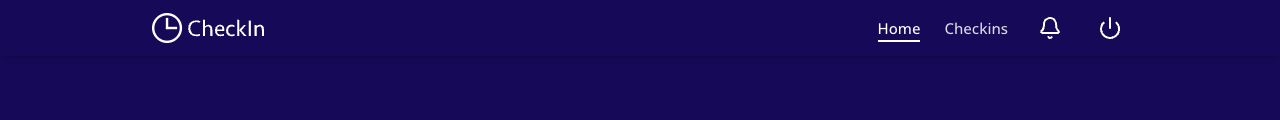
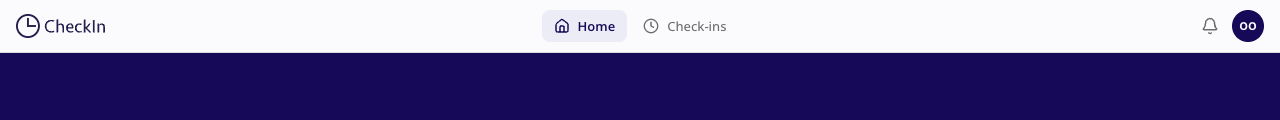
Replace the navy header with a light toolbar of tabs, the bell and Me

diff --git a/src/components/Header/Nav.jsx b/src/components/Header/Nav.jsx
@@ -1,78 +1,67 @@
 import { useContext } from "react";
 import { NavLink } from "react-router-dom";
-import { Bell, BellOff, Power } from "lucide-react";
+import { Bell, BellOff, Clock, House, Users } from "lucide-react";
 import { usePush } from "../../pwa/usePush";
 import AuthContext from "../../store/auth-context";
 
-const navElements = [
-  { label: "Home", link: "/" },
-  { label: "Checkins", link: "/checkins" },
-];
+// NavLink marks the current page with aria-current, which the tint follows.
+const tabClasses =
+  "flex h-8 items-center gap-2 rounded-lg px-3 text-label2 hover:bg-fill hover:text-label focus-visible:outline-2 focus-visible:outline-accent aria-[current=page]:bg-tint aria-[current=page]:font-semibold aria-[current=page]:text-accent dark:aria-[current=page]:bg-white/10 dark:aria-[current=page]:text-label";
 
-// NavLink marks the current page with aria-current, which the underline follows.
-const linkClasses =
-  "border-b-2 border-transparent pb-0.5 text-white/85 hover:border-white/60 hover:text-white focus-visible:outline-2 focus-visible:outline-offset-4 focus-visible:outline-white aria-[current=page]:border-white aria-[current=page]:text-white";
-
-const iconButtonClasses =
-  "flex cursor-pointer rounded-full p-1.5 hover:bg-white/10 focus-visible:outline-2 focus-visible:outline-white disabled:cursor-default disabled:opacity-60";
-
+// The toolbar's tabs. Apple's guidance keeps segmented controls out of main navigation, so these are tabs.
 function Nav() {
   const authCtx = useContext(AuthContext);
-  const push = usePush();
 
   return (
-    <nav>
-      <ul className="flex items-center gap-6">
-        {navElements.map((navElement) => (
-          <li key={navElement.link}>
-            <NavLink className={linkClasses} to={navElement.link} end>
-              {navElement.label}
-            </NavLink>
-          </li>
-        ))}
+    <nav aria-label="Main">
+      <ul className="flex gap-1">
+        <li>
+          <NavLink className={tabClasses} to="/" end>
+            <House className="size-4" aria-hidden="true" /> Home
+          </NavLink>
+        </li>
+        <li>
+          <NavLink className={tabClasses} to="/checkins">
+            <Clock className="size-4" aria-hidden="true" /> Check-ins
+          </NavLink>
+        </li>
         {authCtx.isAdmin && (
           <li>
-            <NavLink className={linkClasses} to="/users">
-              Users
+            <NavLink className={tabClasses} to="/users">
+              <Users className="size-4" aria-hidden="true" /> Users
             </NavLink>
           </li>
         )}
-        {/* Desktop's place to turn reminders off (ADR 0005), as the Me sheet's switch is on a phone. */}
-        {push.method === "switch" && (
-          <li>
-            <button
-              type="button"
-              aria-label="Notifications"
-              aria-pressed={push.isEnabled}
-              title={
-                push.isEnabled
-                  ? "Notifications on: reminds you to clock out if you forget"
-                  : "Notifications off: turn on to be reminded to clock out"
-              }
-              disabled={push.isBusy}
-              className={iconButtonClasses}
-              onClick={push.isEnabled ? push.disable : push.enable}
-            >
-              {push.isEnabled ? (
-                <Bell className="size-6" aria-hidden="true" />
-              ) : (
-                <BellOff className="size-6 text-white/70" aria-hidden="true" />
-              )}
-            </button>
-          </li>
-        )}
-        <li>
-          <button
-            type="button"
-            aria-label="Logout"
-            className={iconButtonClasses}
-            onClick={authCtx.logout}
-          >
-            <Power className="size-6" aria-hidden="true" />
-          </button>
-        </li>
       </ul>
     </nav>
+  );
+}
+
+// Desktop's quick way to turn reminders off (ADR 0005); the Me sheet has the same switch.
+export function BellButton() {
+  const push = usePush();
+  if (push.method !== "switch") return null;
+
+  return (
+    <button
+      type="button"
+      aria-label="Notifications"
+      aria-pressed={push.isEnabled}
+      title={
+        push.isEnabled
+          ? "Notifications on: reminds you to clock out if you forget"
+          : "Notifications off: turn on to be reminded to clock out"
+      }
+      disabled={push.isBusy}
+      className="flex size-8 cursor-pointer items-center justify-center rounded-lg text-label2 hover:bg-fill hover:text-label focus-visible:outline-2 focus-visible:outline-accent disabled:cursor-default disabled:opacity-60"
+      onClick={push.isEnabled ? push.disable : push.enable}
+    >
+      {push.isEnabled ? (
+        <Bell className="size-[18px]" aria-hidden="true" />
+      ) : (
+        <BellOff className="size-[18px] text-label3" aria-hidden="true" />
+      )}
+    </button>
   );
 }
 

diff --git a/src/components/Header/Header.jsx b/src/components/Header/Header.jsx
@@ -1,15 +1,50 @@
-import logo from "../../assets/img/Checkin-white.svg";
-import Nav from "./Nav";
+import { useContext, useState } from "react";
+import logo from "../../assets/img/Checkin-blue.svg";
+import logoDark from "../../assets/img/Checkin-white.svg";
+import AuthContext from "../../store/auth-context";
+import MeSheet, { initials } from "../Me/MeSheet";
+import Nav, { BellButton } from "./Nav";
 
+// Desktop only: a light glass toolbar, as in macOS apps (ADR 0006). Phones use the tab bar instead.
+// The initials open the same Me sheet as the phone's Me tab, centred.
 function Header() {
-  // Desktop only: native apps show no logo bar, and the tab bar is the phone's navigation.
+  const { user } = useContext(AuthContext);
+  const [isMeOpen, setIsMeOpen] = useState(false);
+
+  function handleMeOpen() {
+    setIsMeOpen(true);
+  }
+
+  function handleMeClose() {
+    setIsMeOpen(false);
+  }
+
   return (
-    <header className="sticky top-0 z-40 bg-brand text-white shadow-md max-md:hidden">
-      <div className="mx-auto flex h-14 max-w-5xl items-center justify-between px-4 md:px-6">
-        <img className="h-[30px]" src={logo} alt="Checkin" />
-        <Nav />
-      </div>
-    </header>
+    <>
+      <header className="sticky top-0 z-40 border-b border-sep/60 bg-cell/70 backdrop-blur-xl select-none max-md:hidden">
+        <div className="grid h-13 grid-cols-[1fr_auto_1fr] items-center px-4">
+          <div className="flex">
+            <img className="h-6 dark:hidden" src={logo} alt="Checkin" />
+            <img className="hidden h-6 dark:block" src={logoDark} alt="Checkin" />
+          </div>
+          <Nav />
+          <div className="flex items-center justify-self-end gap-1.5">
+            <BellButton />
+            <button
+              type="button"
+              aria-label="Me"
+              aria-haspopup="dialog"
+              title={user?.name}
+              className="flex size-8 cursor-pointer items-center justify-center rounded-full bg-accent text-mac-sub font-bold text-on-accent focus-visible:outline-2 focus-visible:outline-offset-2 focus-visible:outline-accent"
+              onClick={handleMeOpen}
+            >
+              {user ? initials(user.name) : "Me"}
+            </button>
+          </div>
+        </div>
+      </header>
+      {isMeOpen && <MeSheet onClose={handleMeClose} />}
+    </>
   );
 }
 

diff --git a/e2e/auth.spec.js b/e2e/auth.spec.js
@@ -1,7 +1,7 @@
 import { apiUrl } from "./support/api.js";
 import { expect, loginAs, phone, test, toasts } from "./support/test.js";
 
-test("an admin logs in, sees the admin menu and logs out", async ({ page }) => {
+test("an admin logs in, sees the Users tab and signs out from Me", async ({ page }) => {
   await page.goto("/");
   await expect(page.getByRole("heading", { name: "Sign in to your account" })).toBeVisible();
 
@@ -10,10 +10,20 @@ test("an admin logs in, sees the admin menu and logs out", async ({ page }) => {
   await page.getByRole("button", { name: "Login" }).click();
 
   await expect(page.getByRole("button", { name: "Checkin" })).toBeVisible();
-  await expect(page.getByRole("link", { name: "Users" })).toBeVisible();
+  await expect(page.getByRole("navigation", { name: "Main" }).getByRole("link", { name: "Users" })).toBeVisible();
 
-  await page.getByRole("button", { name: "Logout" }).click();
+  await page.getByRole("button", { name: "Me" }).click();
+  await expect(page.getByRole("dialog", { name: "Me" })).toContainText("Ana Admin");
+  await page.getByRole("button", { name: "Sign out" }).click();
   await expect(page.getByRole("heading", { name: "Sign in to your account" })).toBeVisible();
+});
+
+test("a worker's toolbar has Home and Check-ins, and no Users", async ({ page }) => {
+  await loginAs(page, "worker@example.com");
+  const tabs = page.getByRole("navigation", { name: "Main" }).getByRole("link");
+
+  await expect(tabs).toHaveText(["Home", "Check-ins"]);
+  await expect(tabs.first()).toHaveAttribute("aria-current", "page");
 });
 
 test("a wrong password shows an error and doesn't log in", async ({ page }) => {

diff --git a/src/components/UI/Modal/Modal.jsx b/src/components/UI/Modal/Modal.jsx
@@ -5,7 +5,7 @@ const centred = "m-auto max-h-[calc(100dvh-2rem)] w-[calc(100%-2rem)] rounded-2x
 
 // On phones a sheet is pinned to the bottom edge and slides up, unless the user asked for less motion.
 const sheetClasses =
-  "outline-none open:flex open:flex-col max-md:mx-0 max-md:mt-auto max-md:mb-0 max-md:max-h-[calc(100dvh-env(safe-area-inset-top)-0.75rem)] max-md:w-full max-md:max-w-none max-md:rounded-t-[14px] max-md:rounded-b-none max-md:bg-bg max-md:text-label max-md:motion-safe:transition-transform max-md:motion-safe:duration-300 max-md:motion-safe:ease-out max-md:starting:open:translate-y-full";
+  "outline-none open:flex open:flex-col max-md:mx-0 max-md:mt-auto max-md:mb-0 max-md:max-h-[calc(100dvh-env(safe-area-inset-top)-0.75rem)] max-md:w-full max-md:max-w-none max-md:rounded-t-[14px] max-md:rounded-b-none bg-bg text-label max-md:motion-safe:transition-transform max-md:motion-safe:duration-300 max-md:motion-safe:ease-out max-md:starting:open:translate-y-full";
 
 const barButtonClasses =
   "min-h-11 cursor-pointer rounded px-1 text-accent focus-visible:outline-2 focus-visible:outline-accent";

diff --git a/e2e/clock.spec.js b/e2e/clock.spec.js
@@ -14,7 +14,7 @@ test("a worker clocks in and out on an iPhone, which has no Vibration API", asyn
   // A retrying toHaveCount(0) would just wait for the toast to expire.
   expect(await toasts(page).count()).toBe(0);
 
-  await page.getByRole("link", { name: "Checkins" }).first().click();
+  await page.getByRole("link", { name: "Check-ins" }).first().click();
   await expect(checkinRows(page).filter({ hasText: "04/11/2026" })).toHaveCount(1);
 });
 

diff --git a/src/App.jsx b/src/App.jsx
@@ -46,7 +46,7 @@ function App() {
       <Toaster
         position="top-right"
         richColors
-        offset={{ top: "4.5rem", right: "1rem" }}
+        offset={{ top: "4rem", right: "1rem" }}
         mobileOffset={{ top: "calc(env(safe-area-inset-top) + 0.5rem)" }}
       />
     </div>

diff --git a/src/components/Me/MeSheet.jsx b/src/components/Me/MeSheet.jsx
@@ -10,7 +10,7 @@ import { Group, GroupLabel, Switch, buttonRowClasses, rowClasses } from "../UI/G
 
 const themeLabels = { light: "Light", dark: "Dark", system: "System" };
 
-function initials(name) {
+export function initials(name) {
   return name
     .split(/\s+/)
     .slice(0, 2)

diff --git a/adrs/0006-desktop-like-a-mac-app.plan.md b/adrs/0006-desktop-like-a-mac-app.plan.md
@@ -61,7 +61,7 @@ The macOS sizes and their sources are in `adrs/assets/0006/apple-macos-notes.md`
   - Its `adrs/assets/0005/desktop-bell.png` screenshot is retaken.
   - Tabs: admins see Users and workers don't. `e2e/tabs.spec.js` gets a desktop case if it has none.
   - The toolbar is reachable by keyboard, with visible focus.
-- **Done:** no
+- **Done:** yes. The Header owns its own Me state, and `BellButton` is exported from `Nav.jsx`. Sheets use `bg-bg text-label` at every size. The tabs are a `navigation` named "Main". `e2e/auth.spec.js` covers Users for admins only, and sign-out through Me.
 
 ### 3. Desktop Home
 - **Data:** in `Home.jsx`, `useOwnCheckins` no longer waits for phones, so desktop loads the status, the missing check-outs and the week too.
